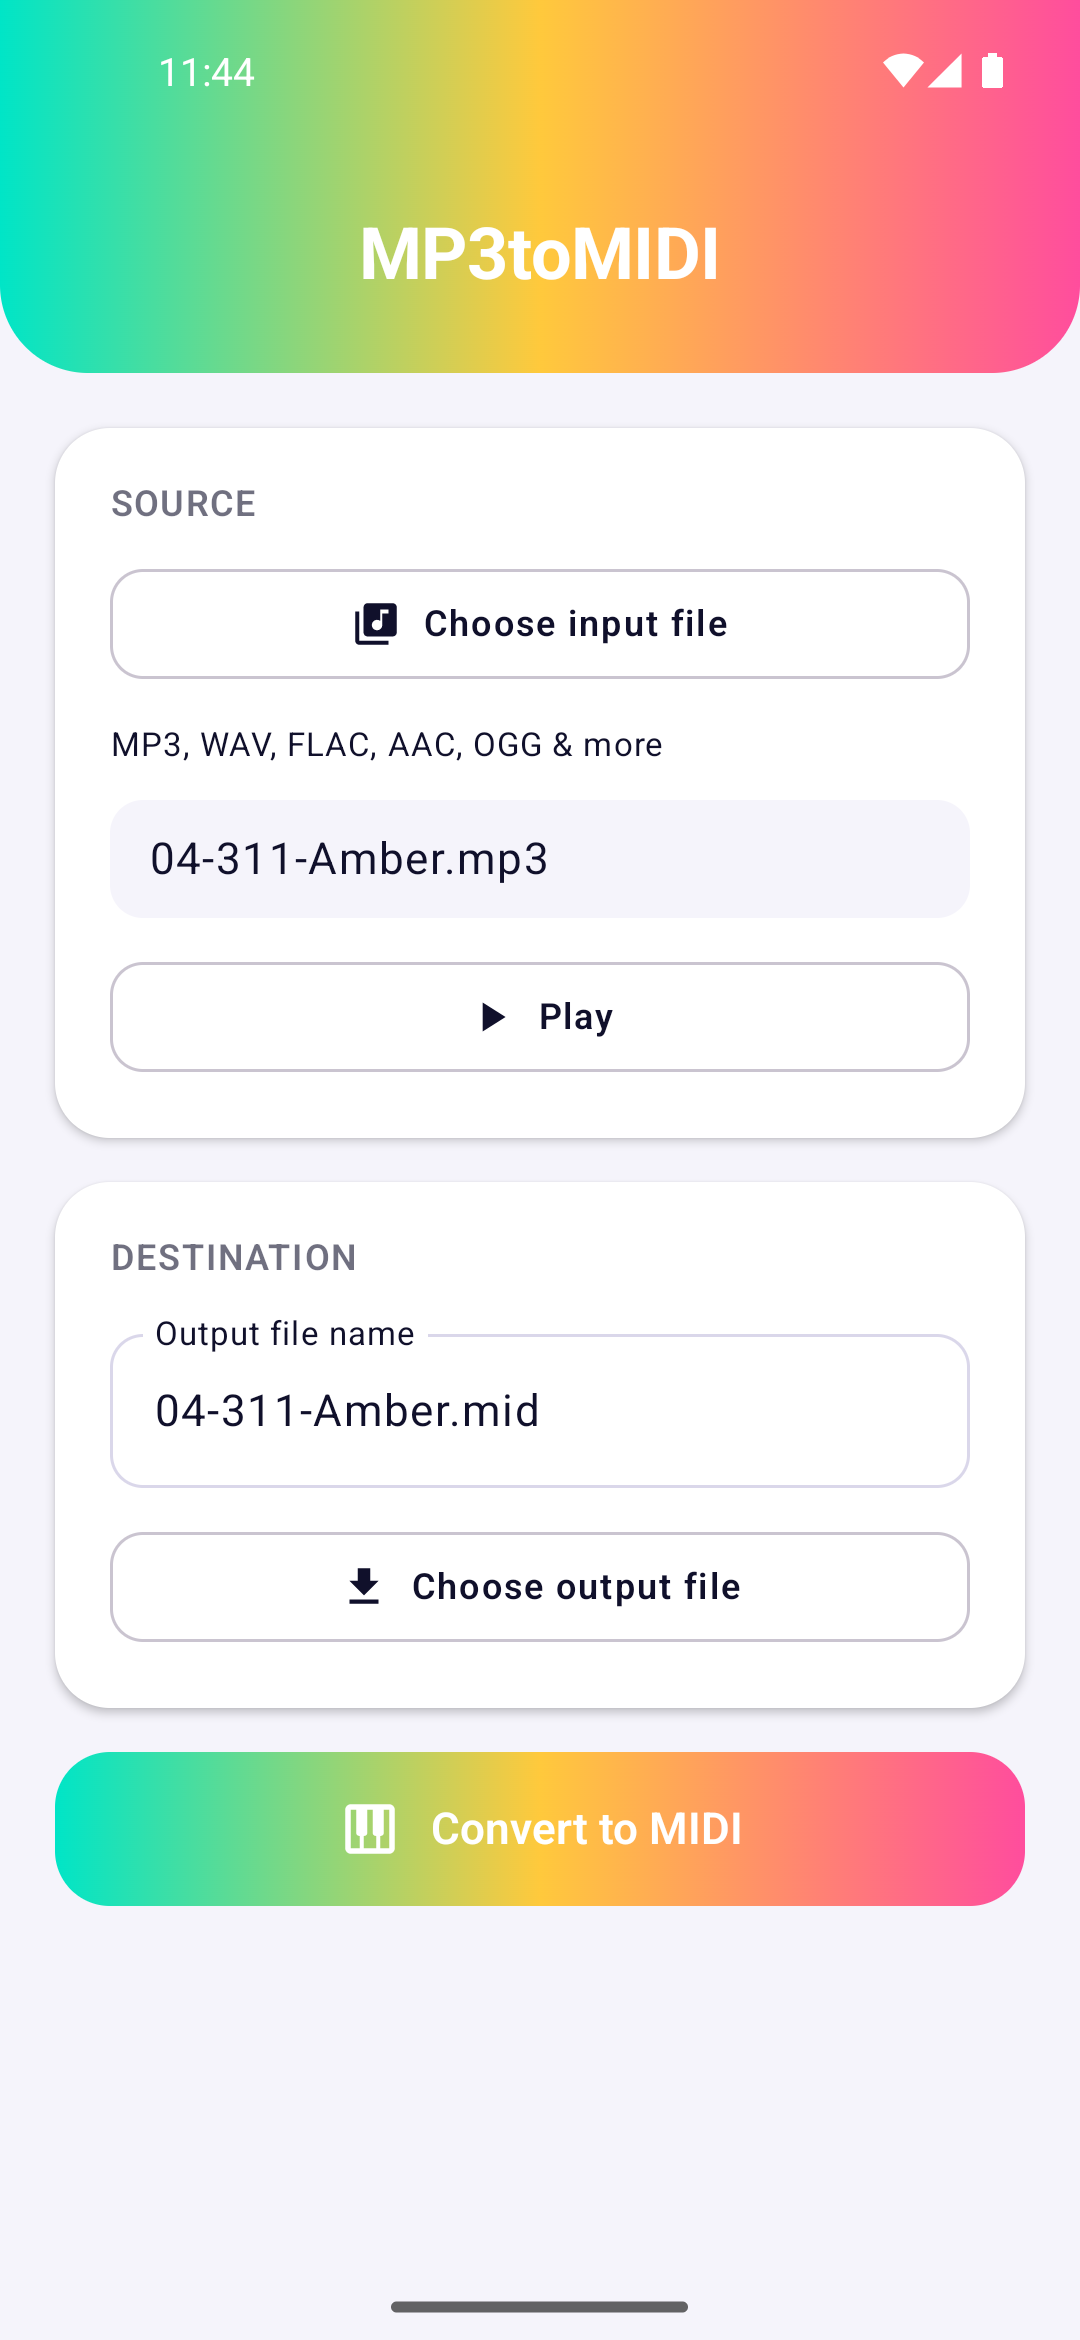
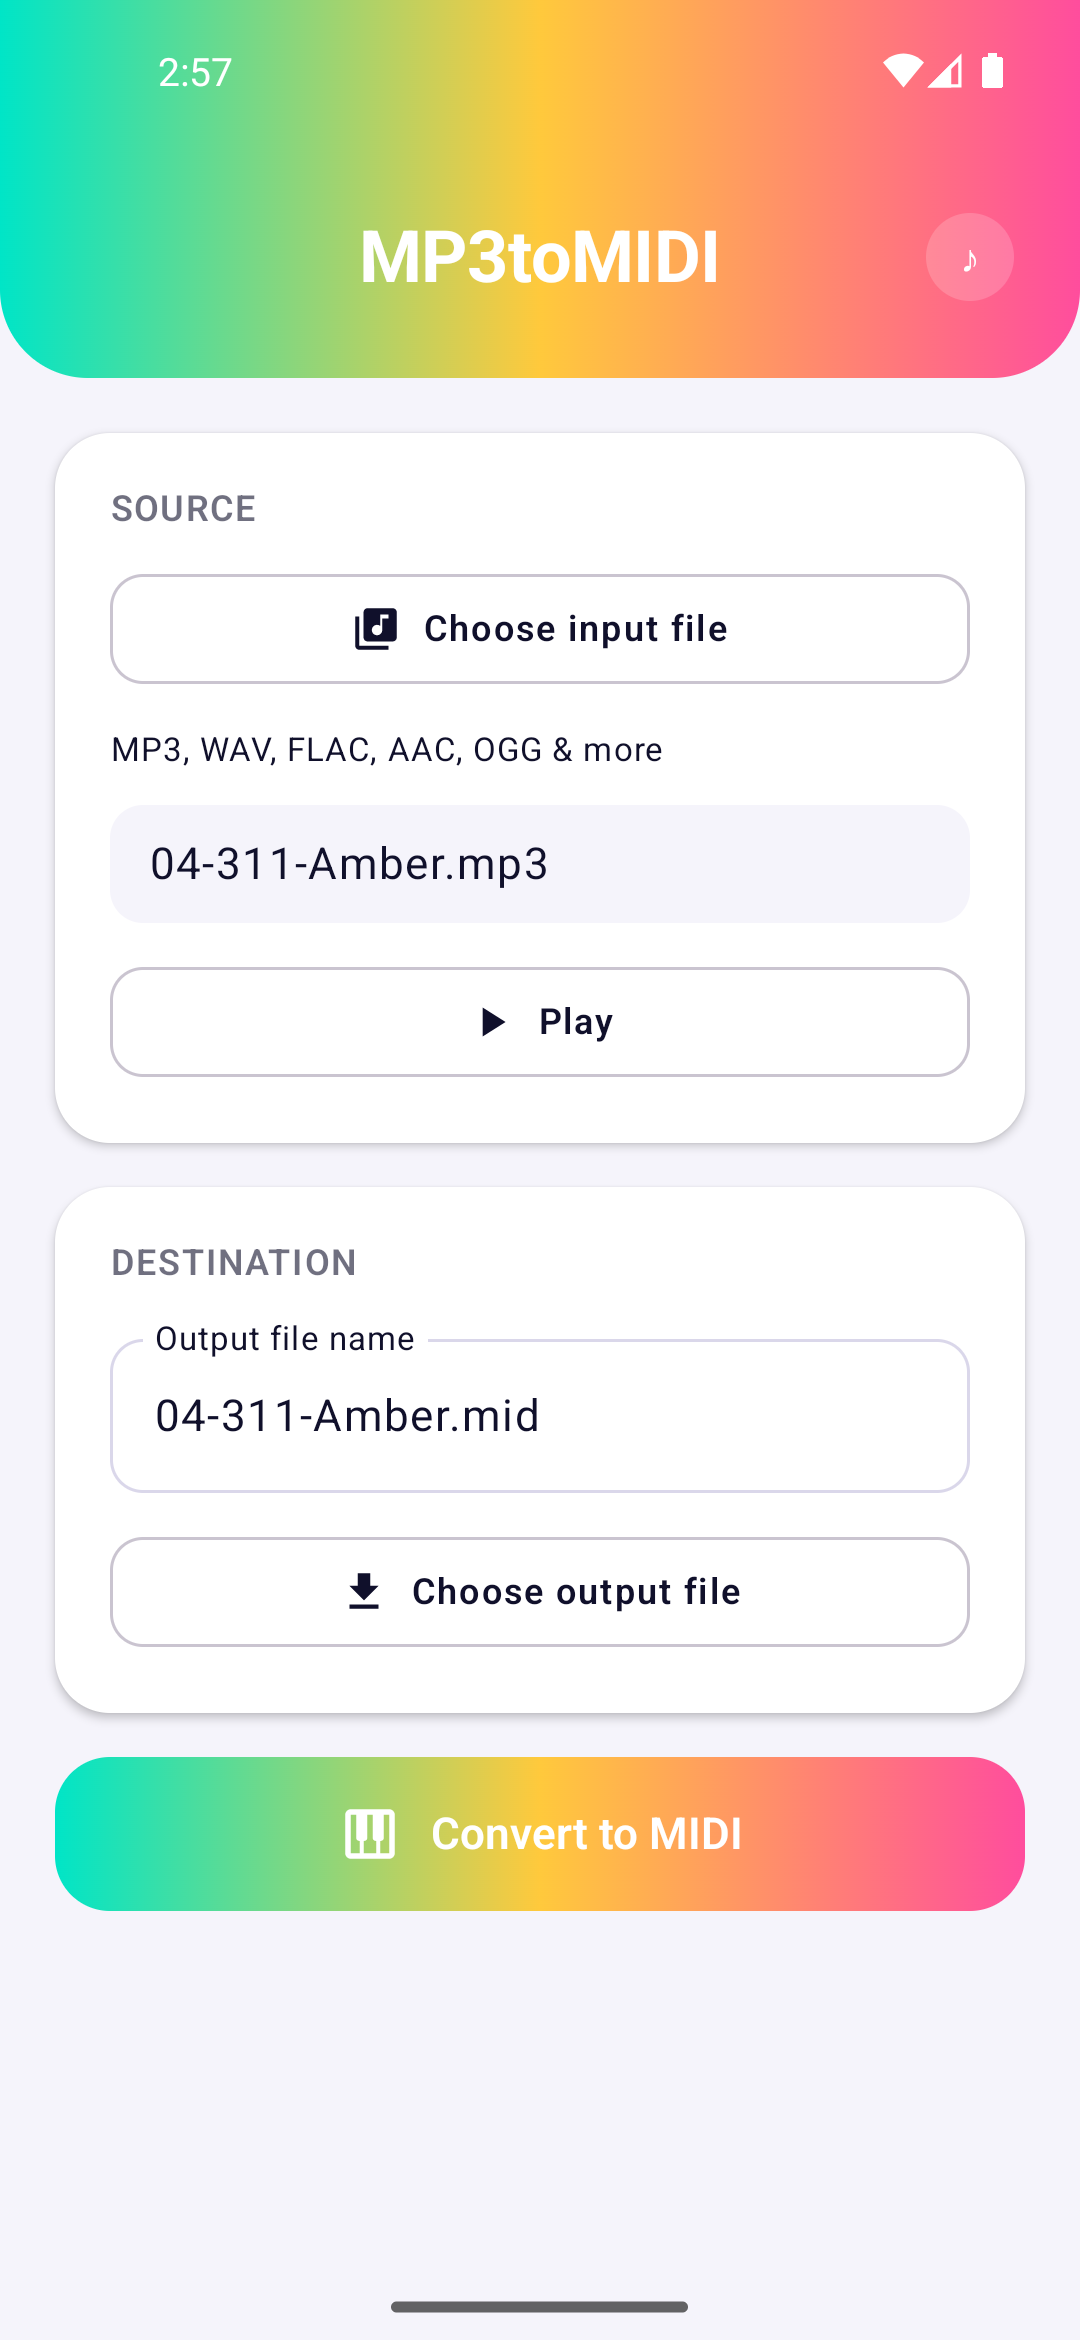
Update README screenshots for the header toggle and MIDI playback
Refreshes the Convert screen screenshot (now shows the header toggle
icon) and adds a second screenshot of the new Play screen mid-playback.

Claude-Session: https://claude.ai/code/session_01Q2KFBac29Azf6cp1r7SLY2

diff --git a/README.md b/README.md
@@ -7,7 +7,7 @@ real source-separation model, then runs pitch/onset detection independently on e
 output MIDI has one track per instrument instead of one smeared-together mess. Everything runs
 on-device; nothing is uploaded anywhere.
 
-<img src="docs/screenshot-main.png" alt="MP3toMIDI main screen: a source MP3 and output filename selected, ready to convert" width="360" />
+<img src="docs/screenshot-main.png" alt="MP3toMIDI main screen: a source MP3 and output filename selected, ready to convert" width="360" /> <img src="docs/screenshot-play.png" alt="MP3toMIDI's MIDI playback screen: a converted file playing back through the default soundfont" width="360" />
 
 ## Features
 
